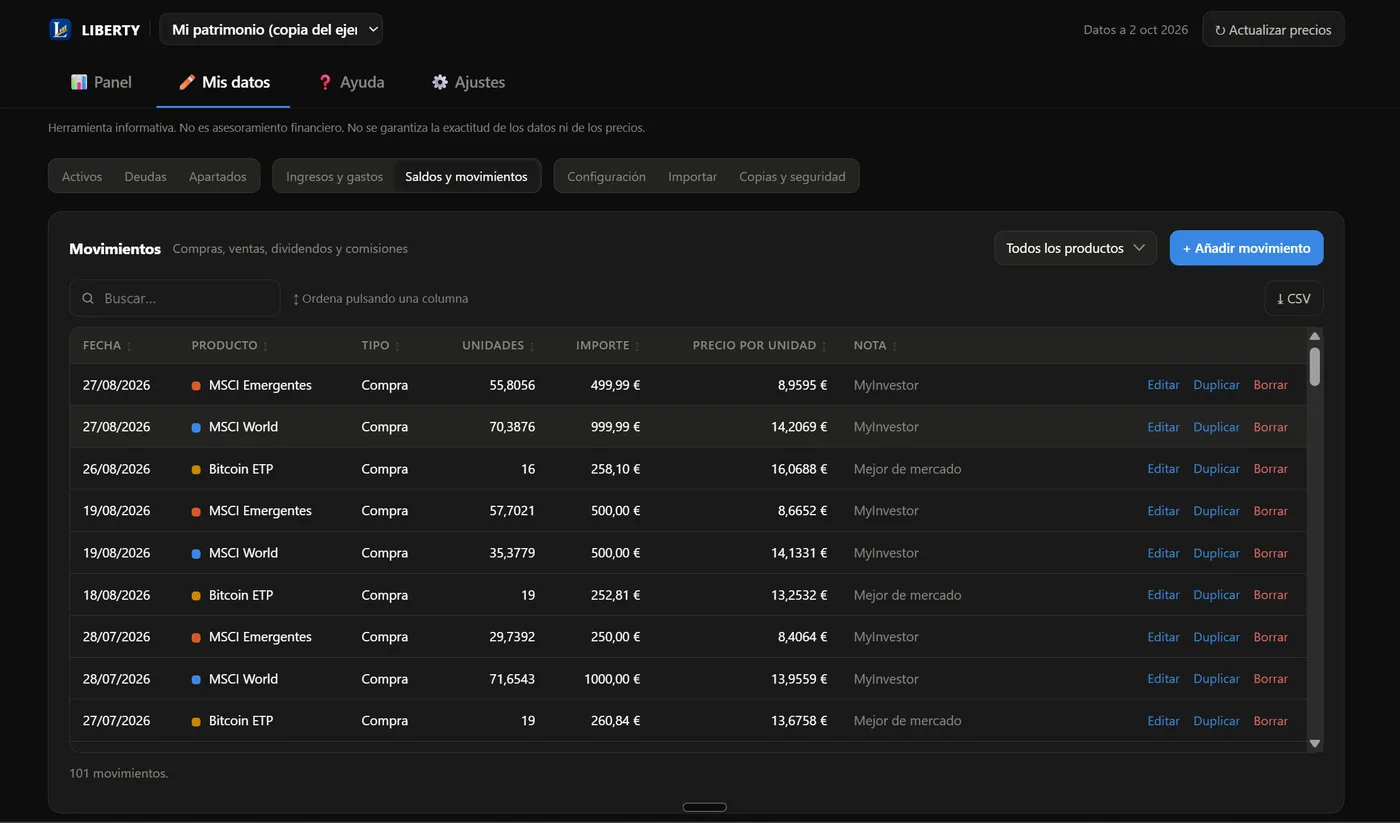
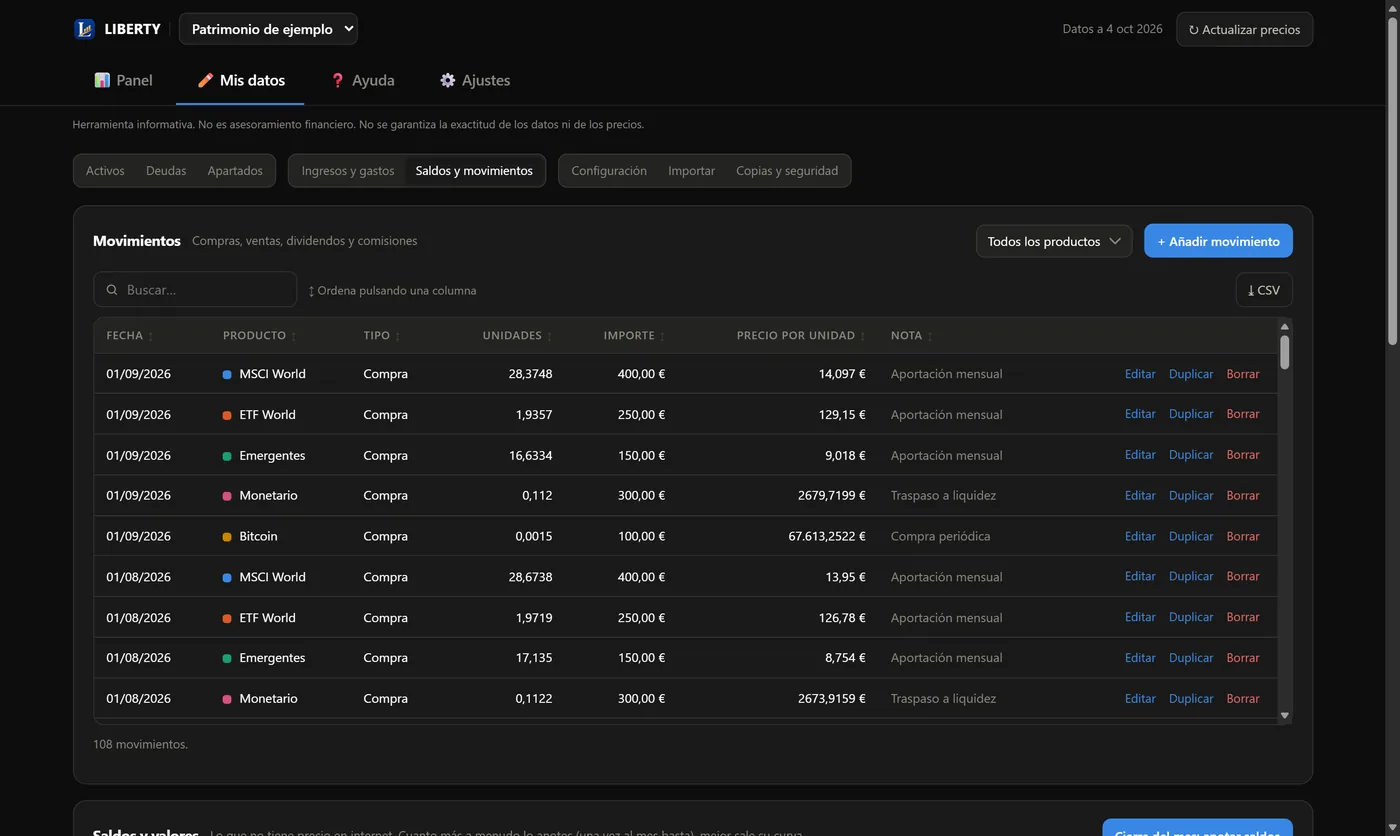
Capturas regeneradas con datos genéricos, modo oscuro automático, enlace a versiones y SHA del exe v1.1.2

diff --git a/index.html b/index.html
@@ -53,6 +53,24 @@
     --radio:16px;
     --max:1080px;
   }
+  /* Modo oscuro automático */
+  @media (prefers-color-scheme:dark){
+    :root{
+      --azul-claro:#6ea0ec;
+      --tinta:#eef2f8;
+      --texto:#c3ccdb;
+      --suave:#8d9ab0;
+      --fondo:#0e1320;
+      --tarjeta:#161d2c;
+      --borde:rgba(255,255,255,.10);
+      --sombra:0 1px 3px rgba(0,0,0,.4),0 10px 30px rgba(0,0,0,.45);
+    }
+    code{background:#1f2838;color:#e2c98a}
+    .faq-item code,.card code{background:#1f2838;color:#e2c98a}
+    .aviso{background:#2a2412;border-color:#5a4a1e}
+    .aviso p{color:#d8c89a}
+    .aviso code{background:#1f2838;border-color:#5a4a1e;color:#e2c98a}
+  }
   *{box-sizing:border-box}
   html{scroll-behavior:smooth}
   body{
@@ -233,6 +251,9 @@
   .verificar p{color:#9fb6e0;margin:12px 0 8px}
   .verificar code{background:rgba(255,255,255,.1);border:1px solid rgba(255,255,255,.18);color:#eaf0fb;border-radius:6px;padding:.12em .45em}
   .verificar code.hash{display:block;word-break:break-all;padding:10px 12px;color:#e7edf8}
+  .ver-versiones{margin:16px 0 0;font-size:.92rem}
+  .ver-versiones a{color:#c7d6f2;font-weight:500}
+  .ver-versiones a:hover{color:#fff}
   .aviso-azul{
     display:flex;gap:12px;align-items:flex-start;text-align:left;
     max-width:620px;margin:18px auto 0;
@@ -491,8 +512,9 @@
       <summary>Verificar integridad (SHA-256)</summary>
       <p>Comprueba que el archivo descargado es exactamente este, sin manipular. En PowerShell:
       <code>Get-FileHash .\Liberty.exe -Algorithm SHA256</code> y compara con:</p>
-      <code class="hash">e67e801a720392cf508f973bc3dd6023f17a868bc08b29f75c60cd2dd20e2e9d</code>
+      <code class="hash">1fe1e34dfd37647779ca36b8de2fc71128a875e7694fc3c63f5f649cd45b238d</code>
     </details>
+    <p class="ver-versiones"><a href="https://github.com/AlonsoVine/liberty/releases" target="_blank" rel="noopener">Ver todas las versiones y novedades →</a></p>
   </div>
 </section>
 
